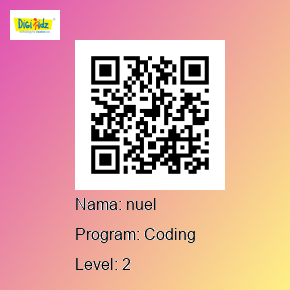
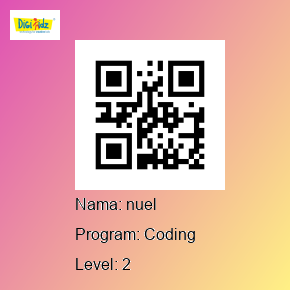
update

Changed region(s): [[0.3103, 0.1862, 0.7448, 0.6207]]

diff --git a/qrcode/scan.php b/qrcode/scan.php
@@ -1,19 +1,106 @@
-<script src="html5-qrcode.min.js"></script>
+<!DOCTYPE html>
+<html lang="id">
 
+<head>
+    <meta charset="UTF-8">
+    <meta name="viewport" content="width=device-width, initial-scale=1.0">
+    <title>Presensi QR</title>
+    <script src="html5-qrcode.min.js"></script>
+    <style>
+        select {
+            width: 100px;
+            padding: 5px;
+            border: 1px solid steelblue;
+            box-shadow: steelblue 2px 2px 2px;
+            box-sizing: border-box;
+        }
+
+        option {
+            padding: 5px;
+        }
+    </style>
 </head>
 
 <body>
     <h2>Presensi dengan QR</h2>
-    <div class="conten" style="display:flex;justify-content:flex-start;">
+    <div class="conten" style="display:flex;justify-content:center;align-items:center;
+    flex-direction: column;gap:9px;">
         <!-- Area Kamera -->
-        <div id="reader" style="width: 300px; height: 290px;margin-right:50px;"></div>
+        <div id="reader" style="width: 200px; height: 150px;z-index:-1;"></div>
         <!-- Area Hasil Scan -->
-        <div id="result">Hasil Presensi :</div>
+        <div id="result">Nama : </div>
+        <form action="" method="post">
+            <input type="hidden" name="hasil" id="hiddenResult">
+            <button type="submit">Submit</button>
+        </form>
+
+        <!-- PHP untuk menampilkan hasil dan dropdown -->
+        <?php
+        if (isset($_POST['hasil'])) {
+            include "../db.php";
+            $nama = htmlspecialchars($_POST['hasil']);
+
+            // Query untuk mengambil data program dan level berdasarkan nama
+            $ambil = mysqli_query($db, "SELECT program, `level` FROM siswa WHERE nama = '$nama'");
+
+            // Debugging untuk melihat hasil query
+            include "../db.php";
+
+            $nama = htmlspecialchars($_POST['hasil']);
+
+            // Query untuk mengambil data program dan level berdasarkan nama
+            $ambil = mysqli_query($db, "SELECT program, level FROM siswa WHERE nama = '$nama'");
+
+            // Debugging jika query gagal
+            if (!$ambil) {
+                die("Query Error: " . mysqli_error($db));
+            }
+
+            // Periksa apakah ada data
+            if (mysqli_num_rows($ambil) > 0) {
+                // Simpan data hasil query ke array
+                $data = [];
+                while ($row = mysqli_fetch_assoc($ambil)) {
+                    $data[] = $row;
+                }
+
+                // Tampilkan form dengan dropdown
+                echo "<div style='margin-top: 2px;'>
+                        <h3>Hasil Presensi:</h3>
+                        <p>Nama: $nama</p>
+                        
+                        <label for='dropdown1'>Program</label>
+                        <select id='dropdown1' name='dropdown1'>";
+                foreach ($data as $row) {
+                    $program = htmlspecialchars($row['program']);
+                    echo "<option value='$program'>$program</option>";
+                }
+                echo "</select>
+                      <br>
+                      
+                      <label for='dropdown2'>Level</label>
+                      <select id='dropdown2' name='dropdown2'>";
+                foreach ($data as $row) {
+                    $level = htmlspecialchars($row['level']);
+                    echo "<option value='$level'>$level</option>";
+                }
+                echo "</select>
+                      <br>
+                      
+                      <input type='submit' name='simpan' value='Simpan'>
+                    </div>";
+            } else {
+                // Jika tidak ada data
+                echo "<p>Data tidak ditemukan untuk nama: $nama</p>";
+            }
+        }
+        ?>
     </div>
     <script>
         function onScanSuccess(decodedText, decodedResult) {
             console.log("QR Code Terbaca:", decodedText);
-            document.getElementById("result").innerHTML = `Isi QR Code: ${decodedText}`;
+            document.getElementById("result").innerHTML = `Nama : ${decodedText}`;
+            document.getElementById("hiddenResult").value = decodedText;
 
             // Hentikan pemindaian setelah berhasil membaca kode QR
             html5QrcodeScanner.clear();
@@ -31,7 +118,7 @@
                     { facingMode: "environment" }, // Menggunakan kamera belakang
                     {
                         fps: 10,
-                        qrbox: { width: 250, height: 250 }
+                        qrbox: { width: 200, height: 200 }
                     },
                     onScanSuccess,
                     onScanFailure

diff --git a/index.php b/index.php
@@ -48,12 +48,16 @@
             border: 1px solid #ccc;
             border-radius: 4px;
             box-sizing: border-box;
+            box-shadow: #5b9bd5 5px 5px 5px;
+
         }
 
         input[type="text"]:focus,
         input[type="password"]:focus {
             border-color: #5b9bd5;
             outline: none;
+            box-shadow: #666 3px 3px 3px;
+
         }
 
         input[type="submit"] {

diff --git a/qrcode/generate_qr.php b/qrcode/generate_qr.php
@@ -6,7 +6,7 @@ if (isset($_POST['nama'])) {
     $level = $_POST['level'];
     $program = $_POST['program'];
 
-    $qrContent = $nama . $program . $level;
+    $qrContent = $nama;
 
     // Define paths for temporary QR code, final name card image, background image, and logo image
     $tempDir = "temp/";

diff --git a/guru/guru.php b/guru/guru.php
@@ -24,7 +24,6 @@
     <H2>Halaman Guru</H2>
     </p>
     <section id="presensi">
-        <h3>Presensi</h3>
         <?php include "../qrcode/scan.php";
         ?>
     </section>
